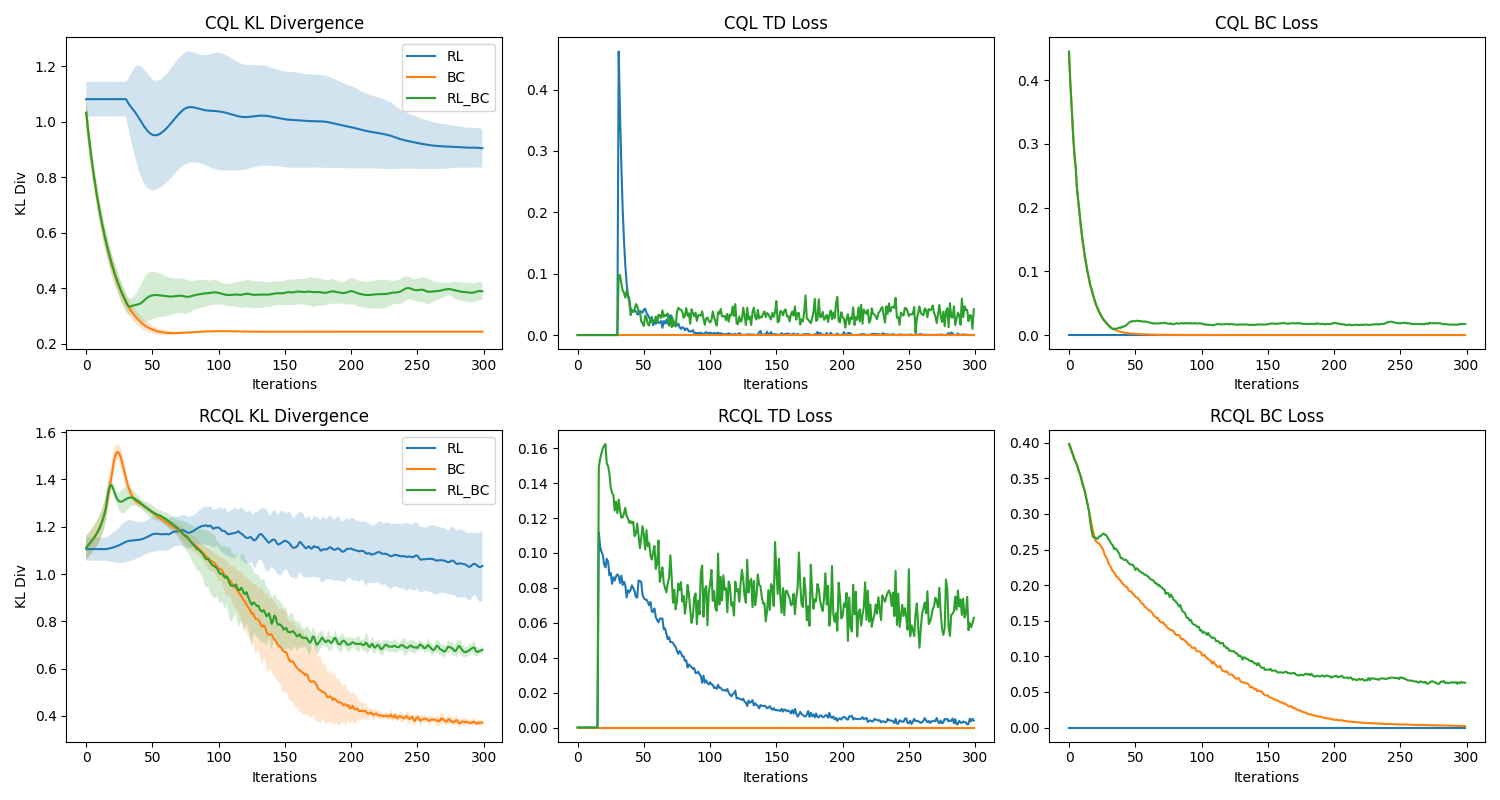
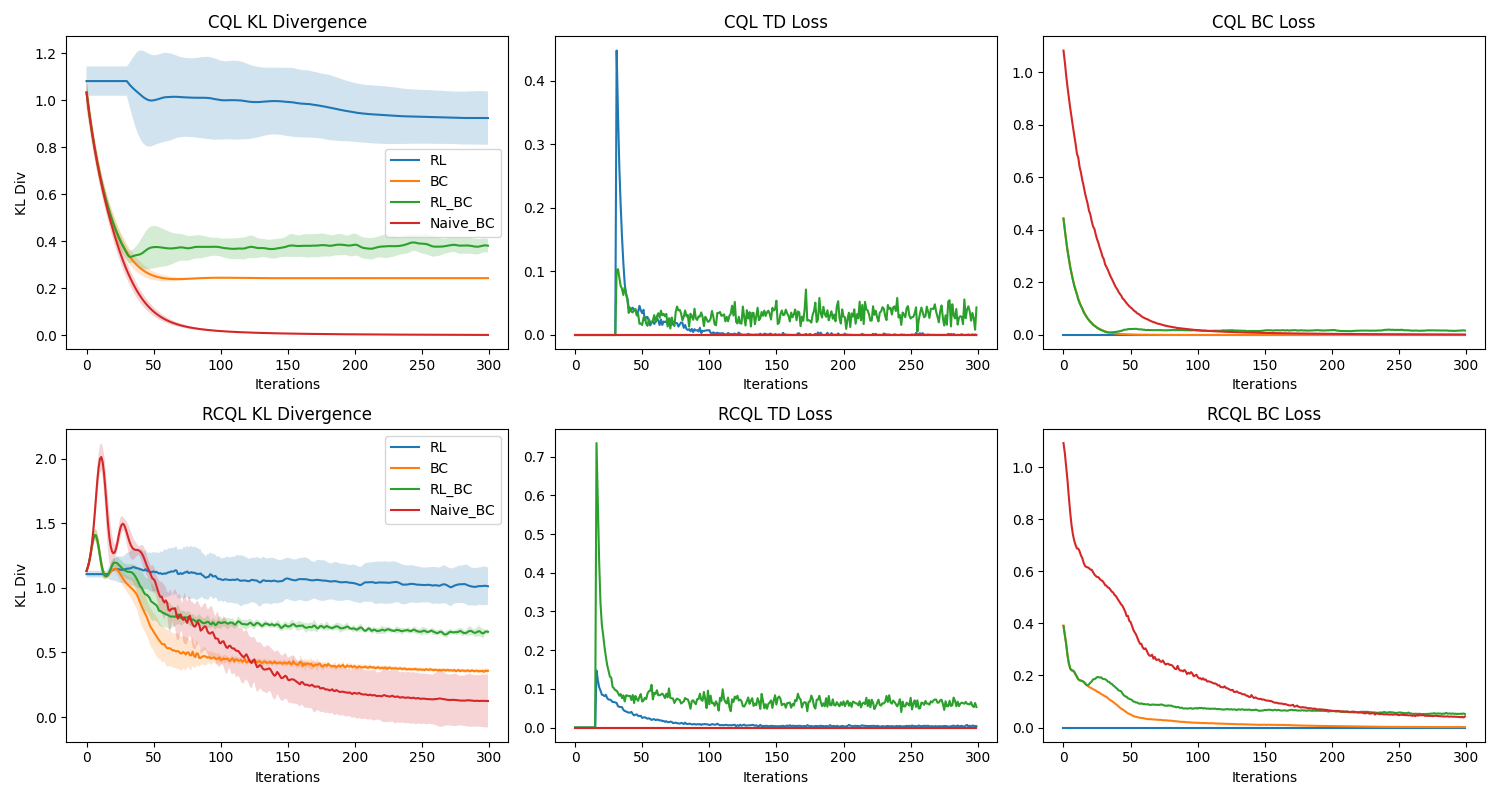
new integration

diff --git a/integration_test.py b/integration_test.py
@@ -43,7 +43,7 @@ class MinimalRCQLEnv(gym.Env):
     def __init__(self):
         super().__init__()
         self.action_space = spaces.Discrete(3)
-        self.observation_space = spaces.Box(low=0, high=255, shape=(3, 16, 16), dtype=np.uint8)
+        self.observation_space = spaces.Box(low=0, high=255, shape=(3, 64,64), dtype=np.uint8)
         self.max_steps = 4
         self.current_step = 0
         self.state_type = 0
@@ -52,7 +52,7 @@ class MinimalRCQLEnv(gym.Env):
         super().reset(seed=seed)
         self.current_step = 0
         self.state_type = self.np_random.integers(0, 2)
-        obs = np.zeros((3, 16, 16), dtype=np.uint8)
+        obs = np.zeros((3, 64, 64), dtype=np.uint8)
         if self.state_type == 0:
             obs[0, :, :].fill(255) # Red
         else:
@@ -70,7 +70,7 @@ class MinimalRCQLEnv(gym.Env):
             else:
                 if action in [1, 2]: reward = 1.0
                 
-        obs = np.zeros((3, 16, 16), dtype=np.uint8)
+        obs = np.zeros((3, 64, 64), dtype=np.uint8)
         return obs, reward, terminated, False, {}
 
 class SimpleBuffer:
@@ -105,7 +105,7 @@ def generate_cql_expert(num_episodes=200):
 
 def generate_rcql_expert(num_episodes=200):
     env = MinimalRCQLEnv()
-    buffer = FastGPUEpisodicBuffer(max_total_transitions=2000, device=device, obs_shape=(3, 16, 16))
+    buffer = FastGPUEpisodicBuffer(max_total_transitions=2000, device=device, obs_shape=(3, 64, 64))
     for _ in range(num_episodes):
         obs, _ = env.reset()
         term = False
@@ -135,10 +135,10 @@ def eval_cql_kl(agent):
     return kl.item()
 
 def eval_rcql_kl(agent):
-    obs0 = np.zeros((4, 3, 16, 16), dtype=np.uint8)
+    obs0 = np.zeros((4, 3, 64, 64), dtype=np.uint8)
     obs0[0, 0, :, :].fill(255)
     
-    obs1 = np.zeros((4, 3, 16, 16), dtype=np.uint8)
+    obs1 = np.zeros((4, 3, 64, 64), dtype=np.uint8)
     obs1[0, 2, :, :].fill(255)
     
     obs_batch = torch.tensor(np.stack([obs0, obs1]), dtype=torch.float32).to(device)
@@ -212,11 +212,11 @@ def run_rcql_experiment(mode, seeds=10, iters=300):
         random.seed(seed)
         
         env = MinimalRCQLEnv()
-        agent = RCQLAgent(obs_dim=(3, 16, 16), action_dim=3, name=f"RCQL_{mode}", device_name=device, hidden_dim=64)
+        agent = RCQLAgent(obs_dim=(3, 64, 64), action_dim=3, name=f"RCQL_{mode}", device_name=device, hidden_dim=64)
         agent.cql_alpha = 0.0
         
         expert_buffer = generate_rcql_expert()
-        online_buffer = FastGPUEpisodicBuffer(max_total_transitions=2000, device=device, obs_shape=(3, 16, 16))
+        online_buffer = FastGPUEpisodicBuffer(max_total_transitions=2000, device=device, obs_shape=(3, 64, 64))
         
         online_rl = mode in ["RL", "RL_BC"]
         bc = mode in ["BC", "RL_BC", "Naive_BC"]